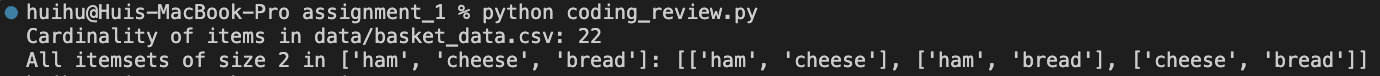
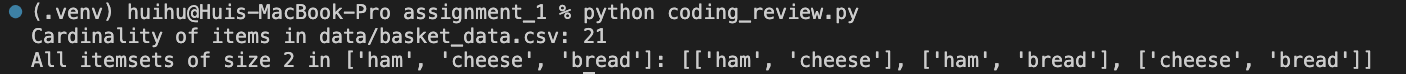
Correct Assignment 1

diff --git a/Assignment/assignment_1/examining_dataset.py b/Assignment/assignment_1/examining_dataset.py
@@ -94,9 +94,8 @@ def get_movie_pairs(data_folder=data_folder, movie_titles_file=movie_titles_file
     movie_pairs = {}
     with open(f"{data_folder}/{movie_titles_file}", "r", encoding="ISO-8859-1") as f:
         for line in f:
-            movie_id = line.split(",")[0].strip()
-            movie_name = line.split(",")[2].strip()
-            movie_pairs[movie_id] = movie_name
+            movie_id, _, movie_name  = line.split(",", 2)
+            movie_pairs[movie_id.strip()] = movie_name.strip()
 
     return movie_pairs
 
@@ -109,7 +108,7 @@ def get_num_movies(data_folder=data_folder, file=movie_titles_file):
     movies = set()
     with open(f"{data_folder}/{file}", "r", encoding="ISO-8859-1") as f:
         for line in f:
-            movies.add(line.split(",")[2].strip())
+            movies.add(line.split(",", 2)[2].strip())
 
     return len(movies)
 
@@ -122,7 +121,7 @@ def get_same_name_movies(data_folder=data_folder, file=movie_titles_file):
     movies = {}
     with open(f"{data_folder}/{file}", "r", encoding="ISO-8859-1") as f:
         for line in f:
-            name = line.split(",")[2].strip()
+            name = line.split(",", 2)[2].strip()
             if name in movies:
                 movies[name] += 1
             else:
@@ -146,11 +145,7 @@ def get_same_name_movies(data_folder=data_folder, file=movie_titles_file):
 """
 
 
-def get_users_200_movies(
-    data_folder=data_folder,
-    file_list=combined_data_list,
-    movie_titles_file=movie_titles_file,
-):
+def get_users_200_movies(data_folder=data_folder, file_list=combined_data_list):
     """
     :param file_list: list of file names
     :return: list of users who rated exactly 200 movies
@@ -213,7 +208,7 @@ def get_users_200_movies(
             users_with_200_rates.append((user_id, users[user_id]["movies"][5]))
 
     num_users = len(users_with_200_rates)
-    lowest_user = min(users_with_200_rates)
+    lowest_user = min(users_with_200_rates, key=lambda x: int(x[0]))
 
     return num_users, lowest_user
 
@@ -248,7 +243,7 @@ def main():
     num_movies = get_num_movies(data_folder=data_folder, file=movie_titles_file)
     print("    Number of movies with unique names:", num_movies)
 
-    # number of movies with same name (7 movies) 
+    # number of movies with same name (7 movies)
     num_same_name_movies = get_same_name_movies(
         data_folder=data_folder, file=movie_titles_file
     )
@@ -268,19 +263,13 @@ def main():
 
     num_users, lowest_user = get_users_200_movies(
         data_folder=data_folder,
-        file_list=combined_data_list,
-        movie_titles_file=movie_titles_file,
+        file_list=combined_data_list
     )
     print("    Number of users who rated exactly 200 movies:", num_users)  # 605 users
     print("    Lowest user ID:", lowest_user[0])  # 1001192
     print("    Movies that this person liked the most:")
     for movie_id in lowest_user[1]:
         print(f"\t{movie_pairs[movie_id]}")
-    # Sex and the City: Season 4
-    # Ghost
-    # Steel Magnolias
-    # Pure Country
-    # Finding Nemo (Full-screen)
 
 
 if __name__ == "__main__":

diff --git a/Assignment/assignment_1/coding_review.py b/Assignment/assignment_1/coding_review.py
@@ -28,6 +28,8 @@ def cardinality_items(filename=filename) -> int:
                 hashset.add(item.strip())
 
         # return the cardinality of the hashset
+        if "" in hashset:
+            hashset.remove("")
         return len(hashset)
     except FileNotFoundError:
         print("File not found:", filename)
